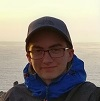
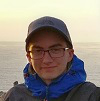
barna added to team list

diff --git a/_pages/team.md b/_pages/team.md
@@ -8,6 +8,7 @@ permalink: /team/
   
   | Team Member Name | Team Member Picture                              | Team Member Role |
   | :--------------: | :----------------------------------------------: | :--------------: |
+  | Barnabas Ujvari  | ![Barna's Picture](/images/barnas_picture.jpg) | Raspberry pi code for movement, base design and construction    |       
   | Daniel Tee       | ![Daniel's Picture](/images/daniels_picture.jpg) | Lift hardware    |         
   
 
